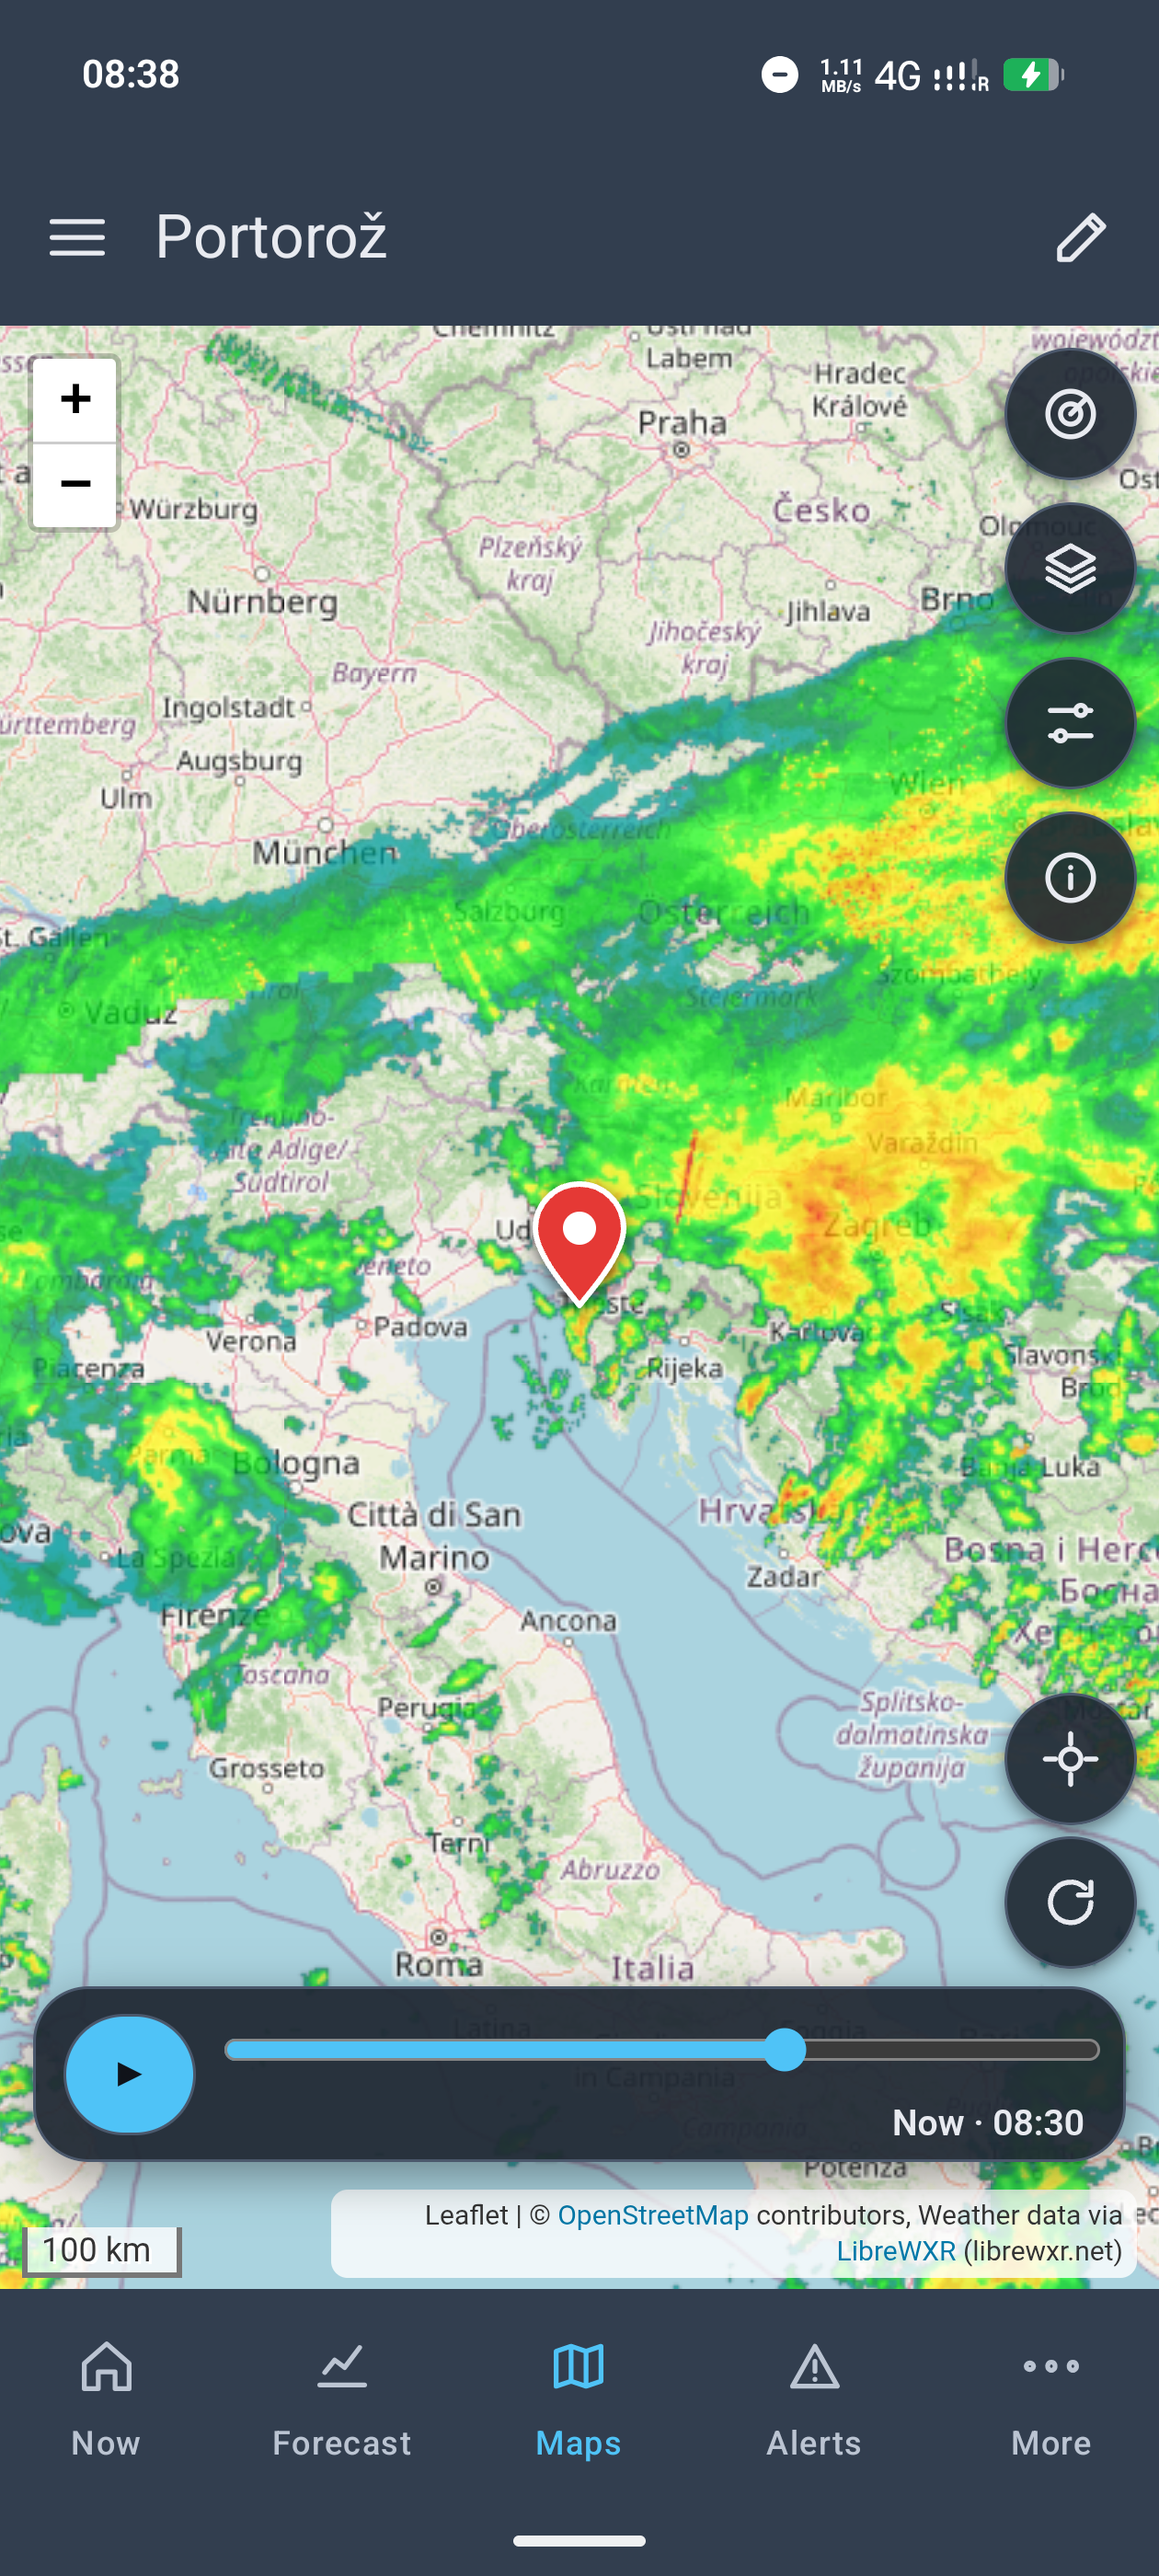
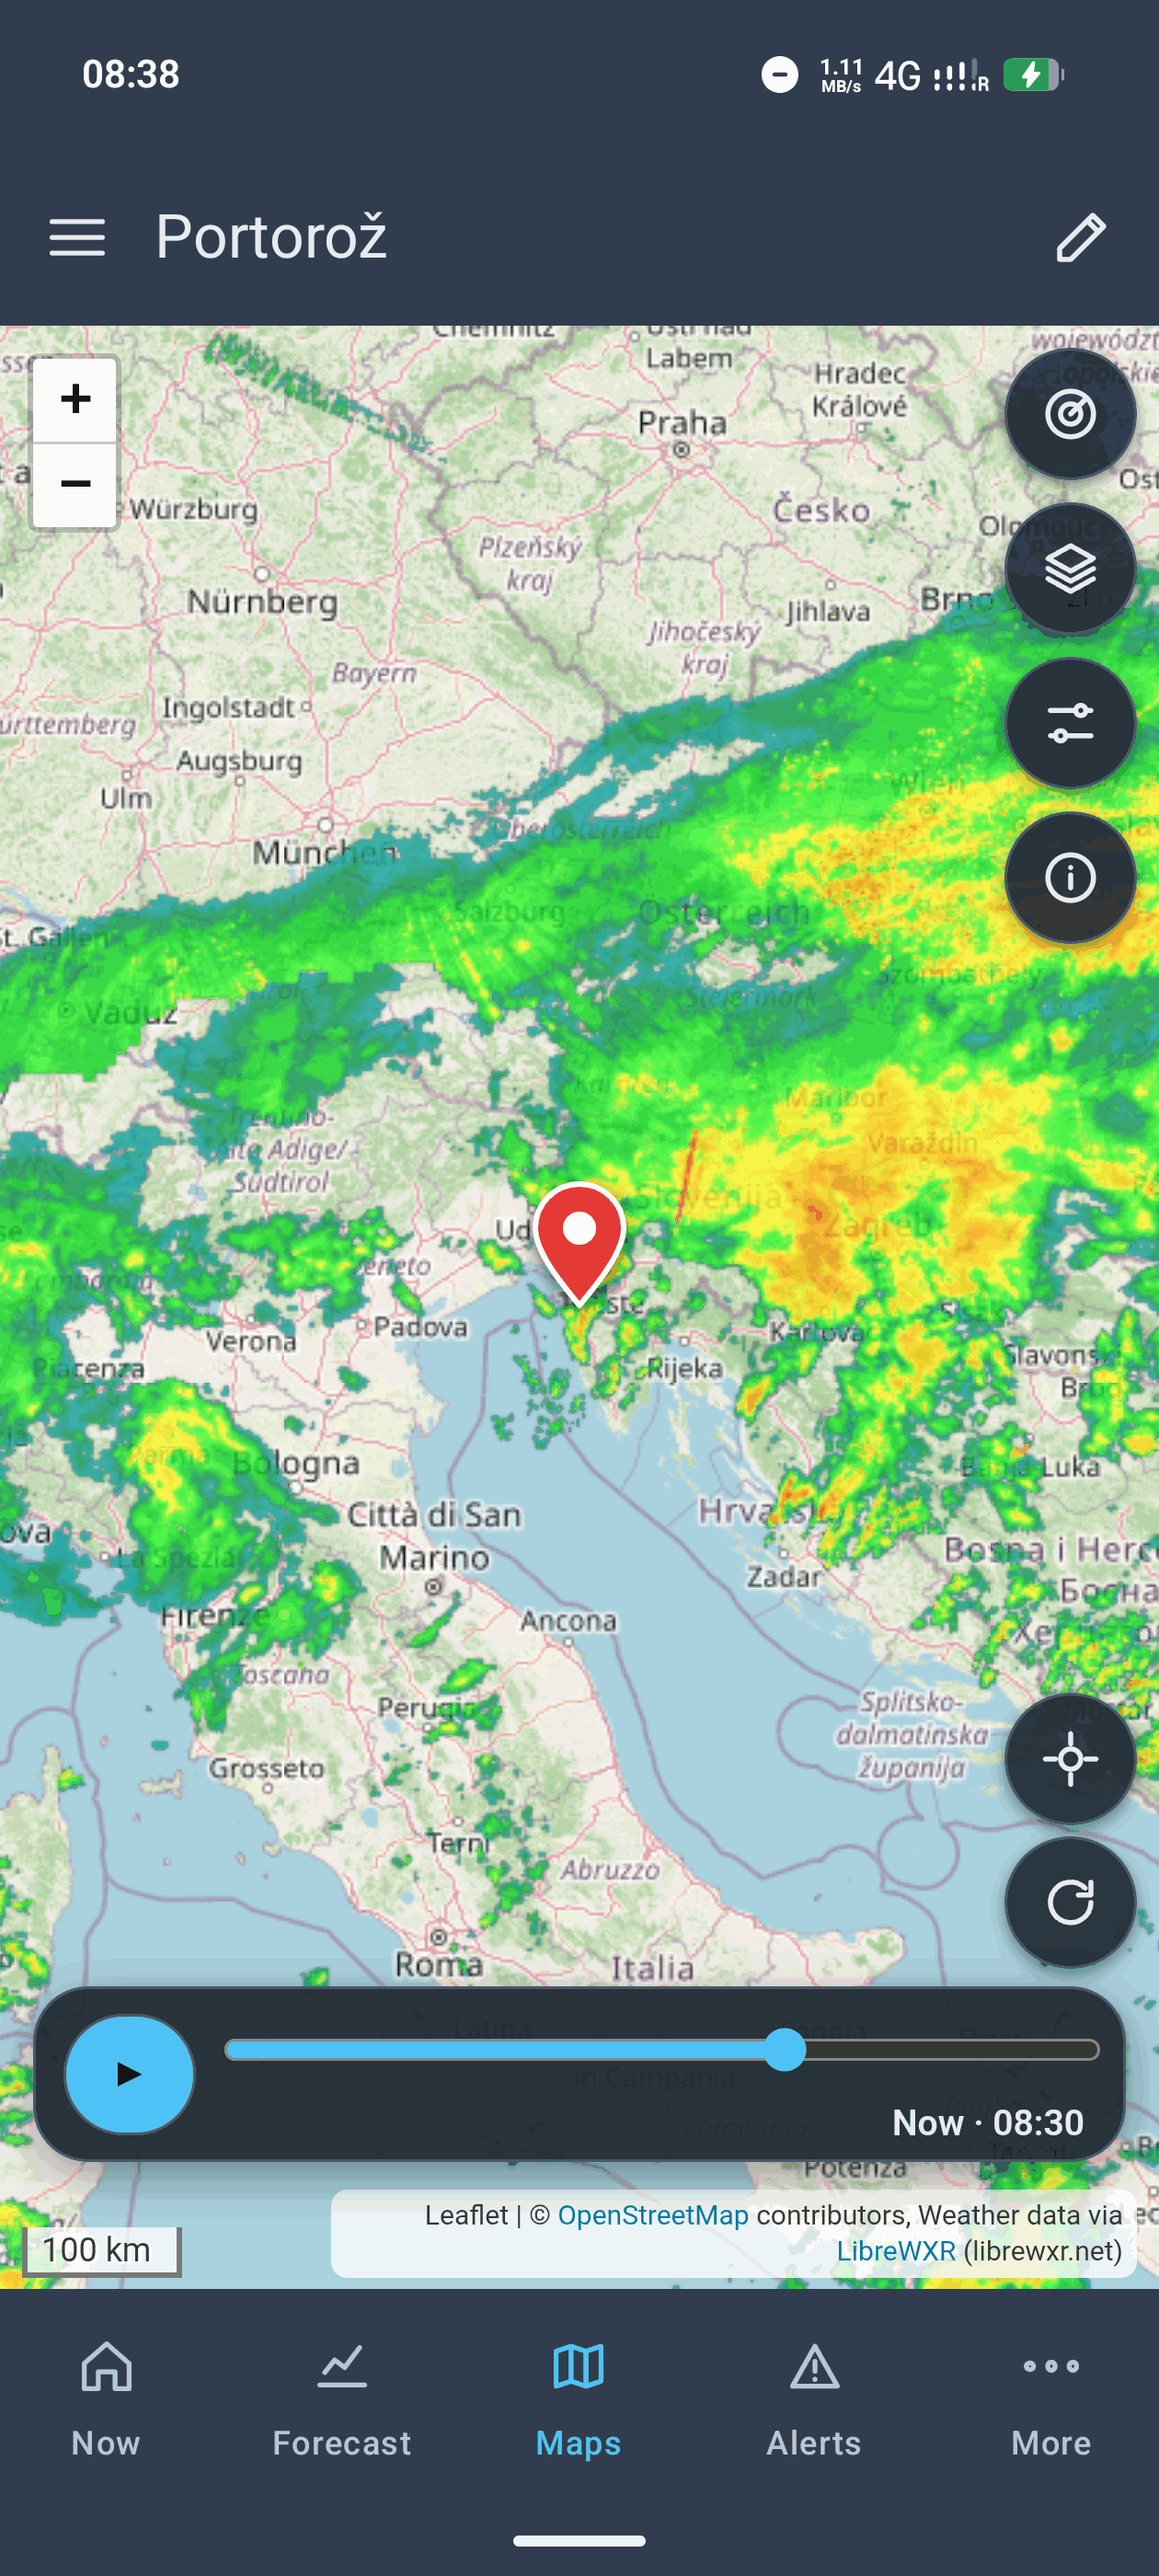
Release 1.4.0
- versionName 1.4.0.
- CHANGELOG: section 1.4.0 with the alert work (Added, Changed, Fixed).
- README: version, Alerts section for the merged warnings and the
  details, notifications, new screenshots of the nowcast and pollen.
- Screenshots: maps.png reduced from 3 MB to 0.9 MB at the same size;
  descriptions of the pollen screenshots corrected.

Changed region(s): [[0.9595, 0.6525, 0.9905, 0.6836], [0.8357, 0.8389, 0.8667, 0.87], [0.4952, 0.4971, 0.5262, 0.5282]]

diff --git a/CHANGELOG.md b/CHANGELOG.md
@@ -4,17 +4,25 @@ All notable changes to Perun Weather for Android. The format follows [Keep a Cha
 
 ## [Unreleased]
 
+## [1.4.0] - 2026-11-26
+
+### Added
+
+- Alerts: a tap on a bar of the chart or on a warning in the overview opens its details in place: the short name of the hazard and the level, the validity with the time to its start or end, the name of the warning, its description, advice and area, the issuer with a link, the sources and the time of the update. A warning sent in more languages has a language switch; the language of the app comes first, then English.
+- Alerts, chart: a short tap on the icons names the hazards; the (i) under the icons explains the chart.
+- Notifications: a new option, Persistent alert notification. While a place has valid or coming warnings, a header with the name of the place stays in the shade, and under it one notification for each kind of warning. Only a new warning makes a sound, and the notifications go away when their warnings end.
+- Notifications: a tap on a warning opens the Alerts screen with the details of that warning.
+
 ### Changed
 
 - Alerts: a new installation turns on all alert sources: local estimates, MeteoAlarm, LibreWXR and the FOSS public alert server. An update keeps the sources chosen before.
-- Alerts: MeteoAlarm, LibreWXR and the FOSS public alert server read every warning from its whole CAP message. The kind of the hazard comes from the codes of the message, so an icing warning gets the ice icon in every source, and a warning of two hazards (for example freezing rain and blowing snow) starts with the first of them. The text is in the language of the app when the message has it.
-- Alerts: the same warning from MeteoAlarm, LibreWXR and the FOSS public alert server is shown once, with all its sources in the issuer line. Warnings are joined by the identifier of their CAP message, not by their text. An updated or cancelled warning removes its older version. The Alerts screen shows the official warnings in one group instead of one group for each source.
-- Alerts, chart: one row for each kind of hazard; the warnings of a row follow each other, a higher level lies on top. Warnings valid now come first, then the higher levels. A warning of more hazards shows up to three icons side by side; a short tap on the icons names the hazards.
-- Alerts: a tap on a bar opens the details under the chart: the short name of the hazard and the level, the validity with the time to its start or end, the name of the warning, its description, advice and area, the issuer with a link, the sources and the time of the update. A warning sent in more languages has a language switch; the language of the app comes first, then English. Empty texts such as "No further information available" are left out. The cards under the chart are shorter; a tap opens the details in place of the card.
-- Notifications of warnings: the icon of the hazard in the colour of the level, the short name and the level, the place in the header (or in the line, when the place has only one notification); expanded, the level, the validity and the description in the language of the app. A tap opens the Alerts screen with the details of the warning.
-- Notifications of warnings: the notifications of one place are grouped and sorted from the highest level; a notification goes away when its warning ends. A new option in the alert notifications, Persistent alert notification, keeps a header with the name of the place while it has valid or coming warnings, and under it one notification for each kind of warning: one line with the icon in the colour of the level, the short name and the level; expanded, the validity and the description. Only a new warning makes a sound, and the notifications go away when their warnings end.
-- Notifications of warnings: the same warning from more sources is announced once. An update of a warning is announced again only when its level rises.
-- Now, alert chip, the mark of a place in the list and the widgets use the same warnings as the Alerts screen, grouped by the kind of the hazard and the level.
+- Alerts: MeteoAlarm, LibreWXR and the FOSS public alert server read every warning from its whole CAP message. The kind of the hazard comes from the codes of the message, so an icing warning gets the ice icon in every source, and a warning of two hazards (for example freezing rain and blowing snow) shows both. The text is in the language of the app when the message has it, otherwise in English.
+- Alerts: the same warning from MeteoAlarm, LibreWXR and the FOSS public alert server is shown once, with all its sources. Warnings are joined by the identifier of their CAP message, not by their text. An updated or cancelled warning removes its older version. Official warnings are one group, local estimates another.
+- Alerts, chart: one row for each kind of hazard; the warnings of a row follow each other, a higher level lies on top. Warnings valid now come first, then the higher levels. A warning of more hazards shows up to three icons side by side.
+- Alerts: the list under the chart is the Alerts overview, with short cards. Empty texts such as "No further information available" are left out.
+- Notifications of warnings: one line with the icon in the colour of the level, the short name and the level; the place is in the header, or in the line when the place has only one notification. Expanded: the validity and the description in the language of the app. The notifications of one place are grouped, sorted from the highest level, and go away when their warnings end.
+- Notifications of warnings: the same warning from more sources is announced once. An update of a warning is announced again only when its level rises. Warnings already announced by 1.3 are not announced again.
+- Now, the alert chip, the mark of a place in the list of places and the widgets use the same warnings as the Alerts screen, grouped by the kind of the hazard and the level.
 - Alerts: whole CAP messages are kept on the phone until they expire, so a refresh downloads only new warnings. One refresh downloads at most 48 new messages for a place; the rest follow at the next refresh, and the list says it may be incomplete.
 
 ### Fixed

diff --git a/README.md b/README.md
@@ -6,7 +6,7 @@ Perun Weather is a weather app for Android built around charts. Instead of an ic
 
 It is the Android version of [Perun Weather for Linux and Windows](https://github.com/tothpsk/perun-weather), written in Kotlin with Jetpack Compose.
 
-**Current version:** 1.3.1 (see the [changelog](CHANGELOG.md)) | **Requires:** Android 15 (API 35) or newer | **Languages:** Slovak, British English
+**Current version:** 1.4.0 (see the [changelog](CHANGELOG.md)) | **Requires:** Android 15 (API 35) or newer | **Languages:** Slovak, British English
 
 ## A tour of the app
 
@@ -22,6 +22,7 @@ A long press on the app icon offers shortcuts to Now, Forecast, Maps and Alerts.
 
 <p align="center">
   <img src="docs/screenshots/now.png" alt="Now screen with current conditions, an alert badge, the day summary and tiles" width="260">
+  <img src="docs/screenshots/nowcast.png" alt="Now screen with the precipitation nowcast and storms nearby" width="260">
 </p>
 
 ### Forecast
@@ -43,17 +44,19 @@ The charts show several days at once. With the uncertainty band switched on, eac
 
 ### Alerts
 
-Active alerts are drawn on a timeline and listed with their severity, issuer and period of validity. The chart marks every alert with the icon of its hazard, and the name of the issuer links to the page of the warning when the source gives one. Four independent sources can be combined freely, and each is shown under its own heading without merging duplicates:
+Active alerts are drawn on a timeline with one row for each kind of hazard, marked by its icon and coloured by its level; a warning of two hazards, such as freezing rain and blowing snow, shows both icons. The alerts overview under the chart lists them in short cards. A tap on a bar or a card opens the details of the warning: its validity, description, advice and area, the issuer with a link to the warning, and its sources. A warning sent in more languages can be switched between them; it opens in the language of the app when the issuer sends one, otherwise in English. The app does not translate the texts.
 
-- Local alerts computed in the app from the forecast.
+Four sources can be combined freely:
+
+- Local alerts computed in the app from the forecast, shown apart from the official ones.
 - MeteoAlarm for Europe. A place gets the alerts of the warning areas it lies in, by its position.
 - LibreWXR for the world.
 - FOSS Public Alert Server for the world (meteorological alerts only).
 
-The text of an alert is shown in the language of the issuing service; the app does not translate it.
+The same official warning from more sources is shown once, with all its sources: warnings are joined by the identifier of their CAP message. An updated or cancelled warning replaces its older version. A new installation turns on all four sources.
 
 <p align="center">
-  <img src="docs/screenshots/alerts.png" alt="Alert timeline and alert cards" width="260">
+  <img src="docs/screenshots/alerts.png" alt="Alert timeline and the alerts overview" width="260">
 </p>
 
 ### Air quality and pollen
@@ -63,6 +66,11 @@ The air quality index on the European or the US scale, particulate matter, gases
 <p align="center">
   <img src="docs/screenshots/air-quality.png" alt="Air quality index by day" width="260">
   <img src="docs/screenshots/air-quality-day.png" alt="Hourly detail of air quality for one day" width="260">
+</p>
+
+<p align="center">
+  <img src="docs/screenshots/pollen.png" alt="Pollen by day" width="260">
+  <img src="docs/screenshots/pollen-day.png" alt="Hourly detail of pollen for one day" width="260">
 </p>
 
 ### Sea data
@@ -92,7 +100,8 @@ Sunrise and sunset, the length of the day and its change, moonrise and moonset, 
 ### Notifications
 
 - Current conditions as a permanent notification, and a chosen value in the status bar.
-- Weather alerts from a chosen severity, for the active location, all locations or a chosen set.
+- Weather alerts from a chosen severity, for the active location, all locations or a chosen set. The alerts of each place are grouped under its name, and a tap opens the details of the warning. The same warning from more sources is announced once, and an update only when its level rises.
+- Optionally, a persistent alert notification for each place while it has warnings, with one line for each kind of warning.
 - Your own rules for a parameter and a threshold, for one or several locations.
 - Summaries of today and tomorrow at a chosen hour.
 

diff --git a/docs/screenshots/README.md b/docs/screenshots/README.md
@@ -5,15 +5,15 @@ Images used by the main [README](../../README.md). The file names are fixed:
 | File | Screen |
 |---|---|
 | `now.png` | Now |
-| `nowcast.png` | Precipitation nowcast with storm detection | 
+| `nowcast.png` | Now with the precipitation nowcast and storms nearby |
 | `forecast-days.png` | Forecast by day (temperature) |
 | `forecast-day.png` | Forecast, hourly detail of one day |
 | `charts.png` | Charts with the uncertainty band |
 | `alerts.png` | Alerts |
 | `air-quality.png` | Air quality index by day |
 | `air-quality-day.png` | Air quality, hourly detail of one day |
-| `pollen.png` | Pollen, hourly detail of one day |
-| `pollen-day.png` | Air quality index by day 
+| `pollen.png` | Pollen by day |
+| `pollen-day.png` | Pollen, hourly detail of one day |
 | `marine.png` | Sea data |
 | `maps.png` | Maps |
 | `sun-moon.png` | Sun and Moon |
